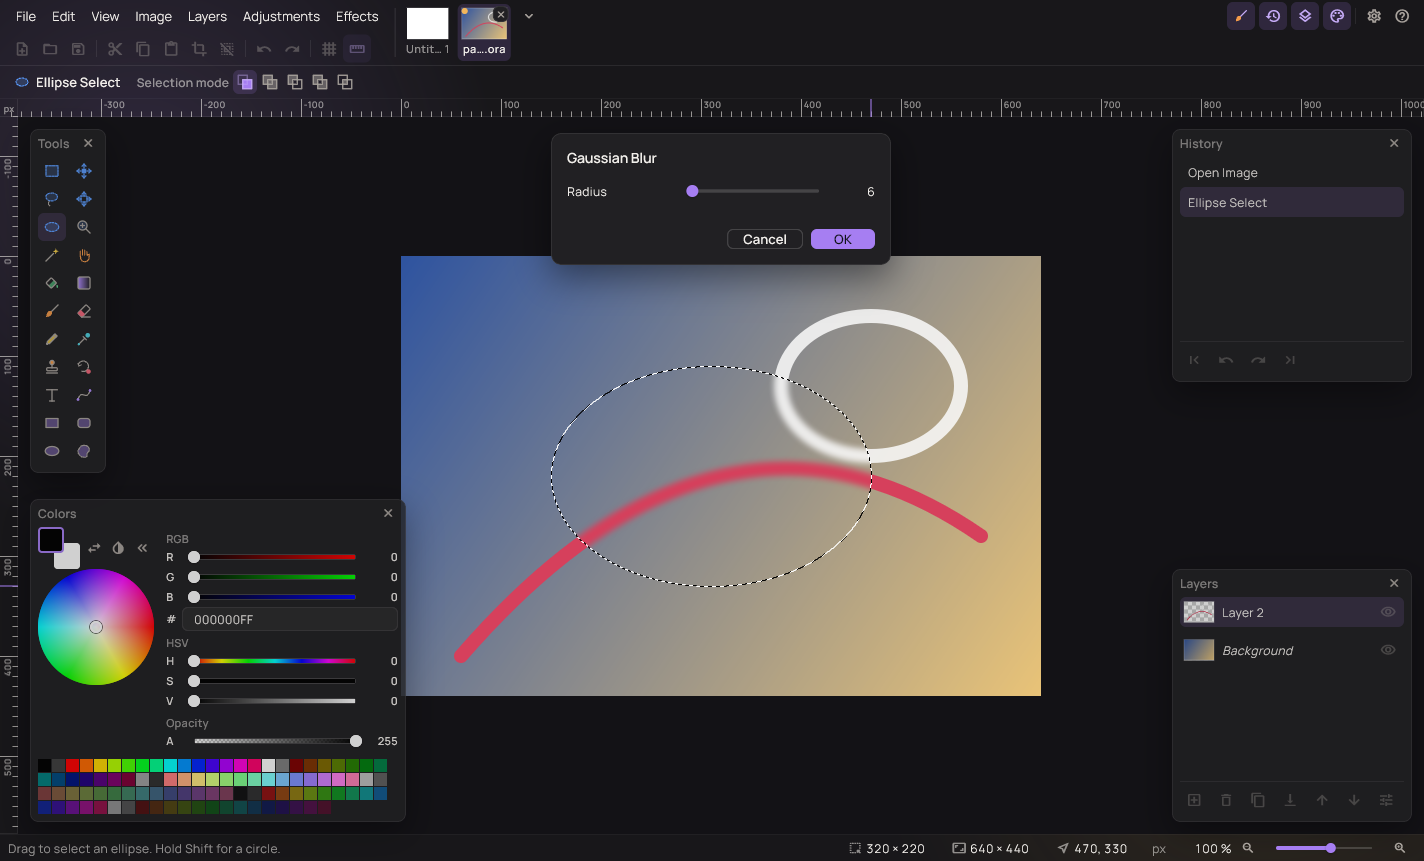
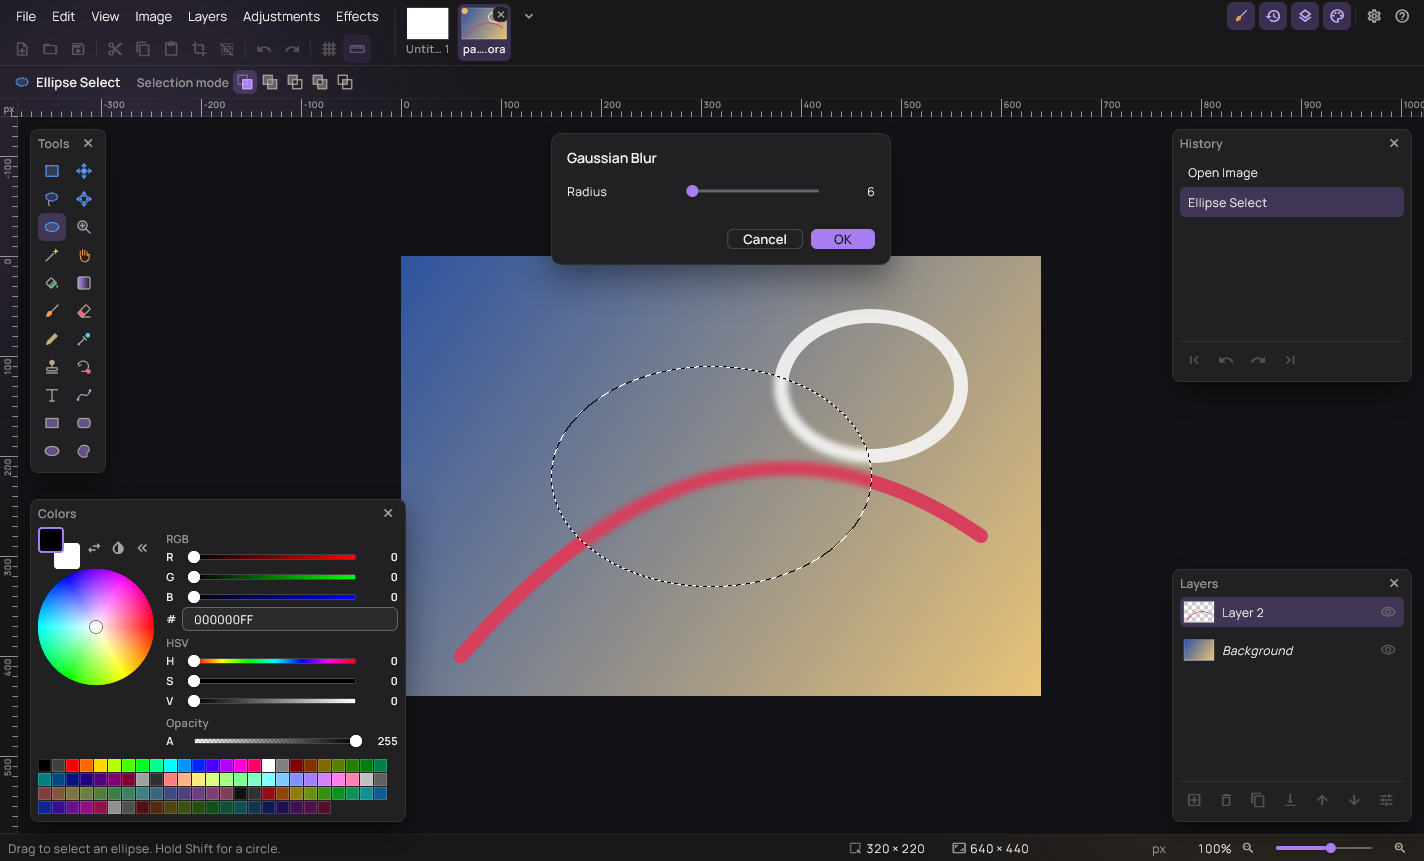
Raise contrast on the light theme; fit the Tools title; retake shots
- Selected rows, tools and buttons use a stronger accent tint (22% on
  light, 24% on dark) so the selection reads on both themes.
- Field borders, check boxes and slider tracks use a control edge that
  reaches 3:1 against the surface.
- The light theme's yellow tool icons are darker (about 3.7:1, above the 3:1 icons need).
- Palette swatches have an edge, so white shows on light and black on
  dark.
- The custom accent's color wheel has no opacity slider: the accent is
  always opaque.
- The Tools window is as wide as its title or its two columns of
  buttons, whichever is wider, so longer titles are not cut.
- Screenshots move the pointer off the canvas before the picture, so the
  floating windows are opaque and show their true colors; the README
  pictures are retaken.

diff --git a/app/packages_ui/app_ui/lib/src/theme/app_theme.dart b/app/packages_ui/app_ui/lib/src/theme/app_theme.dart
@@ -148,7 +148,10 @@ abstract final class AppTheme {
     final isDark = scheme.brightness == Brightness.dark;
     final tokens = isDark ? AppTokens.dark(scheme) : AppTokens.light(scheme);
     final popover = isDark ? const Color(0xFF1E1D23) : const Color(0xFFFFFFFF);
-    // Buttons keep the small radius of every control: room is dear.
+    // The edge of a field, a check box or a slider track: 3:1 against the
+    // surface, the contrast a control's boundary needs.
+    final control = AccentPalette.readable(scheme.outline, scheme.surface);
+    // Buttons keep the small radius of every control: space is scarce.
     final pill = RoundedRectangleBorder(
       borderRadius: BorderRadius.circular(Radii.xxs),
     );
@@ -188,8 +191,8 @@ abstract final class AppTheme {
         ),
         hintStyle: text.bodySmall?.copyWith(color: tokens.muted),
         labelStyle: text.bodySmall?.copyWith(color: tokens.muted),
-        border: field(tokens.hairline),
-        enabledBorder: field(tokens.hairline),
+        border: field(control),
+        enabledBorder: field(control),
         focusedBorder: field(scheme.primary.withValues(alpha: 0.7), 1.2),
         errorBorder: field(tokens.danger),
         focusedErrorBorder: field(tokens.danger, 1.2),
@@ -270,7 +273,7 @@ abstract final class AppTheme {
       sliderTheme: SliderThemeData(
         trackHeight: 3,
         activeTrackColor: scheme.primary,
-        inactiveTrackColor: tokens.hairlineStrong,
+        inactiveTrackColor: control,
         thumbColor: scheme.primary,
         overlayColor: tokens.accentSoft,
         thumbShape: const RoundSliderThumbShape(enabledThumbRadius: 6),
@@ -278,7 +281,7 @@ abstract final class AppTheme {
       ),
       checkboxTheme: CheckboxThemeData(
         visualDensity: VisualDensity.compact,
-        side: BorderSide(color: tokens.hairlineStrong, width: 1.4),
+        side: BorderSide(color: control, width: 1.4),
         shape: RoundedRectangleBorder(
           borderRadius: BorderRadius.circular(Space.xxs),
         ),

diff --git a/app/packages_ui/editor_ui/lib/src/widgets/color_editor_widget.dart b/app/packages_ui/editor_ui/lib/src/widgets/color_editor_widget.dart
@@ -37,6 +37,7 @@ class ColorEditorWidget extends StatelessWidget {
     required this.expanded,
     required this.labels,
     this.leading,
+    this.showOpacity = true,
     super.key,
   });
 
@@ -47,6 +48,10 @@ class ColorEditorWidget extends StatelessWidget {
 
   /// Above the wheel: the two colours and their buttons.
   final Widget? leading;
+
+  /// False where the colour is always opaque (the accent): the compact
+  /// editor then has no opacity slider.
+  final bool showOpacity;
 
   /// The compact editor's width: everything under the wheel fits it.
   static const double wheelSize = _WheelWidget.size;
@@ -114,15 +119,16 @@ class ColorEditorWidget extends StatelessWidget {
           ?leading,
           wheel,
           const SizedBox(height: Space.xxs),
-          _ChannelSlider(
-            label: labels.opacity,
-            value: color.a.toDouble(),
-            max: 255,
-            track: alphaTrack,
-            onChanged: setAlpha,
-            compact: true,
-            checker: true,
-          ),
+          if (showOpacity)
+            _ChannelSlider(
+              label: labels.opacity,
+              value: color.a.toDouble(),
+              max: 255,
+              track: alphaTrack,
+              onChanged: setAlpha,
+              compact: true,
+              checker: true,
+            ),
           hex,
         ],
       );

diff --git a/app/packages_ui/editor_ui/lib/src/components/editor_shell_component.dart b/app/packages_ui/editor_ui/lib/src/components/editor_shell_component.dart
@@ -36,9 +36,6 @@ class EditorShellComponent extends StatefulWidget {
 }
 
 class _EditorShellComponentState extends State<EditorShellComponent> {
-  /// Two tool buttons a row, as Paint.NET has them, and room for the title.
-  static const _toolsWidth = 2 * ControlSize.button + Space.xxs + 2 * Space.xs;
-
   /// History and Layers share a width, their edges in one line.
   static const _rightWidth = 240.0;
 
@@ -314,7 +311,6 @@ class _EditorShellComponentState extends State<EditorShellComponent> {
                                   FloatingPanelWidget(
                                     title: words.panelTools,
                                     alignment: Alignment.topLeft,
-                                    width: _toolsWidth,
                                     dimmed: dimmed,
                                     hideTooltip: '${words.panelHide} (F5)',
                                     onHide: () => hide('toggle_tools'),

diff --git a/app/packages_ui/app_ui/lib/src/theme/app_tokens.dart b/app/packages_ui/app_ui/lib/src/theme/app_tokens.dart
@@ -100,7 +100,7 @@ class AppTokens extends ThemeExtension<AppTokens> {
     hairlineStrong: Colors.white.withValues(alpha: 0.16),
     glow: scheme.primary.withValues(alpha: 0.28),
     shadow: Colors.black.withValues(alpha: 0.45),
-    accentSoft: scheme.primary.withValues(alpha: 0.16),
+    accentSoft: scheme.primary.withValues(alpha: 0.24),
     onAccentSoft: AccentPalette.readable(
       Color.lerp(scheme.primary, Colors.white, 0.35)!,
       scheme.surface,
@@ -129,7 +129,7 @@ class AppTokens extends ThemeExtension<AppTokens> {
     hairlineStrong: Colors.black.withValues(alpha: 0.18),
     glow: scheme.primary.withValues(alpha: 0.22),
     shadow: Colors.black.withValues(alpha: 0.12),
-    accentSoft: scheme.primary.withValues(alpha: 0.12),
+    accentSoft: scheme.primary.withValues(alpha: 0.22),
     onAccentSoft: AccentPalette.readable(
       Color.lerp(scheme.primary, Colors.black, 0.25)!,
       scheme.surface,

diff --git a/app/packages_ui/editor_ui/lib/src/components/window_toggles_component.dart b/app/packages_ui/editor_ui/lib/src/components/window_toggles_component.dart
@@ -10,7 +10,8 @@ import 'package:flutter_bloc/flutter_bloc.dart';
 import 'package:paint_logic/paint_logic.dart';
 
 /// The top right corner, as in Paint.NET: the floating windows shown or
-/// hidden (F5 - F8), the settings (the theme) and help.
+/// hidden (F5 - F8), the settings (theme, accent colour, language) and
+/// help.
 class WindowTogglesComponent extends StatelessWidget {
   const WindowTogglesComponent({super.key});
 
@@ -33,6 +34,7 @@ class WindowTogglesComponent extends StatelessWidget {
             child: ColorEditorWidget(
               color: color,
               expanded: false,
+              showOpacity: false,
               onChanged: (next) => setState(
                 () => color = Rgba8(r: next.r, g: next.g, b: next.b, a: 255),
               ),

diff --git a/app/packages_ui/editor_ui/lib/src/components/colors_panel_component.dart b/app/packages_ui/editor_ui/lib/src/components/colors_panel_component.dart
@@ -75,7 +75,12 @@ class ColorsPanelComponent extends StatelessWidget {
             child: Container(
               width: size ?? ControlSize.swatch,
               height: size ?? ControlSize.swatch,
-              color: swatch.color,
+              // Edged, so white reads on the light panel and black on the
+              // dark one.
+              decoration: BoxDecoration(
+                color: swatch.color,
+                border: Border.all(color: context.tokens.hairlineStrong),
+              ),
             ),
           ),
         );

diff --git a/app/packages_ui/editor_ui/lib/src/components/tools_panel_component.dart b/app/packages_ui/editor_ui/lib/src/components/tools_panel_component.dart
@@ -18,7 +18,8 @@ class ToolsPanelComponent extends StatelessWidget {
     final tools = PaintCatalog.tools;
     return BlocSelector<EditorBloc, EditorState, Tool?>(
       selector: (state) => state is EditorReady ? state.tool : null,
-      // Two a row, as Paint.NET has them, whatever the window's width.
+      // Two buttons per row, as in Paint.NET; the window is as wide as
+      // this or its title, whichever is wider.
       builder: (context, active) => Center(
         child: SizedBox(
           width: 2 * ControlSize.button + Space.xxs,

diff --git a/app/lib/screenshot/screenshot_runner.dart b/app/lib/screenshot/screenshot_runner.dart
@@ -162,6 +162,10 @@ class ScreenshotRunner {
             continue;
         }
         if (wanted) {
+          // The pointer leaves the canvas, so the floating windows are
+          // opaque and show their true colours.
+          bloc.add(const CanvasPointerExitedEvent());
+          await _settle(const Duration(milliseconds: 400));
           await _capture(boundary, name);
         }
       }

diff --git a/app/packages_ui/app_ui/lib/src/theme/icon_hues.dart b/app/packages_ui/app_ui/lib/src/theme/icon_hues.dart
@@ -30,7 +30,7 @@ class IconHues extends ThemeExtension<IconHues> {
     blue: Color(0xFF2F6FDB),
     cyan: Color(0xFF1597A8),
     green: Color(0xFF2E9E5B),
-    yellow: Color(0xFFC99A0E),
+    yellow: Color(0xFF9E7800),
     orange: Color(0xFFD9731F),
     red: Color(0xFFD14257),
     violet: Color(0xFF7D57D6),
